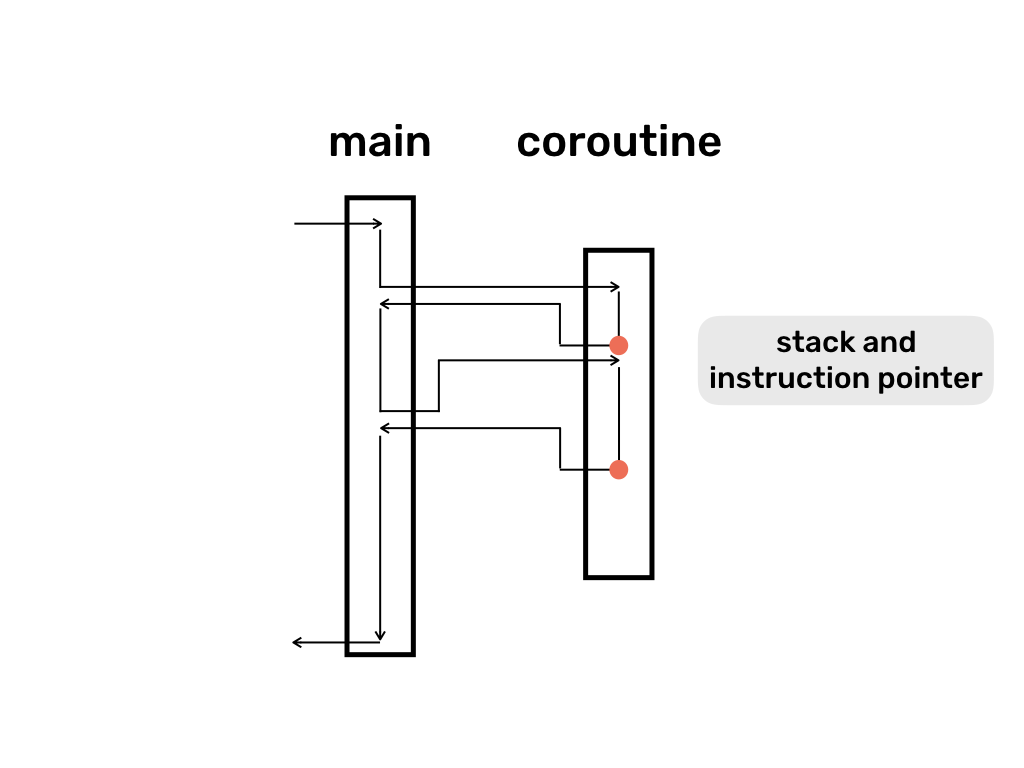
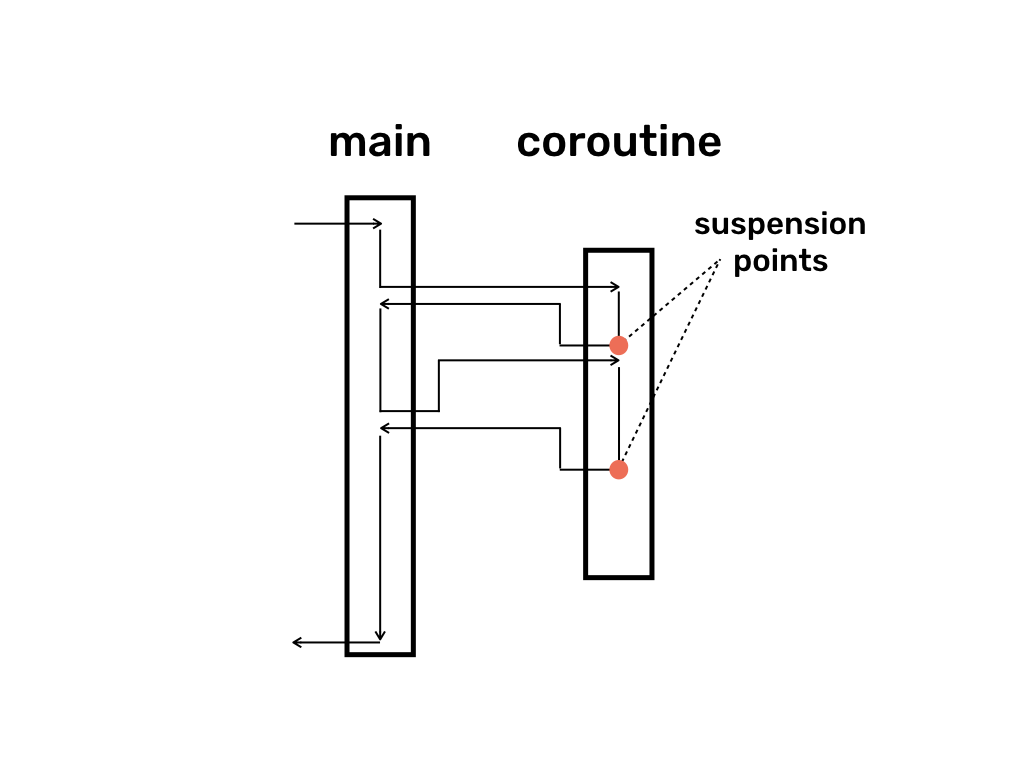
reviewed "coroutines as threads" post

Changed region(s): [[0.6875, 0.4375, 0.9688, 0.5312], [0.6562, 0.2812, 0.8438, 0.375]]

diff --git a/_posts/coroutines/2018-05-01-coroutines-as-threads.md b/_posts/coroutines/2018-05-01-coroutines-as-threads.md
@@ -2,48 +2,58 @@
 draft: true
 ---
 
-The main motivation for this blog post is that I heard about coroutines, continuations, yield/async/await in various languages. And I even used them to some extent, but somehow I never got to really understand what they mean from computational point of view, how they work and how they relate to each other. Talking to other developers I think this is not just me. There is general not a lot of awareness in general. So this is an attempt to clarify coroutines.
+This is the first blog in a series of blogposts explaining coroutines, how they implemented in various programming languages and how they can make your life better. 
+There are currently four blogposts:
+[coroutines as threads]({% post_url 2018-05-01-coroutines-as-threads %}),
+[yielding generators]({% post_url 2018-05-02-yielding-generators %}),
+[async await]({% post_url 2018-05-03-async-await %}) and
+[call with current continuation]({% post_url 2018-05-06-call-with-current-continuation %}).
 
-### Brief History
+The main motivation for these blogposts is that, probably like many other developers, I heard about coroutines, continuations, yield/async/await and even used them to some extent, but somehow I never got to really understand what they mean from computational point of view, how they work and how concepts like continuations relate to coroutines. This is an attempt to clarify coroutines for myself and anyone else interested in the subject.
 
-There is nothing new about coroutines from computer science point of view. According to wikipedia coroutines were known as early as 1958. There were implemented in Simula 67 and in Scheme in 1972. They are so not new even by 90s that John Reynolds wrote The Discoveries of Continuations paper in 1993 describing the rediscoveries of continuations. Until about 80s there were no threads easily available in operating systems so if you needed any concurrent behaviour you would have to use coroutines or something similar. Later on when threads because widespread it seems that everyone forgot about coroutines for a while. Until recently when they came back into mainstream probably because some of the languages (like Python and JavaScript) don't have or can't use threads by design.
+
+### Why use coroutines?
+
+There are multiple reasons you might want to use coroutines.
+They will be explained in more details in later posts but here is a quick description of few main use-cases: 
+
+1. **Concurrency in single-threaded environment.** 
+Some programming languages don't have threads. This can be by design like in Lua or JavaScript (because it simplifies a lot of things in language design). Or like in Python which has threads but because of [global interpreter lock](https://wiki.python.org/moin/GlobalInterpreterLock) they cannot be used concurrently. Or it might be an embedded device running OS without threads. In all these cases, if you need concurrency, coroutines might be your best option.
+
+2. **To simplify code.** It can be done by using `yield` keyword to write iterables, by using `async/await` to "flatten" asynchronous code avoiding [callback hell](http://callbackhell.com) or by writing asynchronous code in imperative style (and staying away from converting all the code into pure functional style, e.g. see this [blog post](http://blog.paralleluniverse.co/2015/08/07/scoped-continuations/)).
+
+3. **Efficient use of OS resources and hardware.** If the design of your application requires a lot of threads, then you can benefit from coroutines by saving on memory allocation, time it takes to do context switch and ultimately benefit from using hardware more efficiently. For example, if each "business object" in your application is assigned a thread, then by using coroutines you will need less memory and will benefit from faster switching between coroutines. Another example might be performing blocking IO. Because in general, threads are more expensive than sockets, you are more likely to run out of available OS threads than sockets. To avoid this problem you can use non-blocking IO with coroutines.
+
+
+### Brief history
+
+There is nothing new about coroutines from computer science point of view. [According to wikipedia](https://en.wikipedia.org/wiki/Coroutine) coroutines were known as early as 1958. There were implemented in high-level programming languages starting with [Simula 67](https://en.wikipedia.org/wiki/Simula) and in [Scheme](https://en.wikipedia.org/wiki/Scheme_%28programming_language%29) in 1972. Coroutines were so old news by 90s that John Reynolds wrote [The Discoveries of Continuations paper](http://www.cs.ru.nl/%7Efreek/courses/tt-2011/papers/cps/histcont.pdf) in 1993 describing the rediscoveries of continuations. Until about 80s there were no threads easily available in operating systems so if you needed any concurrent behaviour you would have to use coroutines or something similar. Later on, when threads because widespread, it seems that everyone forgot about coroutines for a while. Until recently, when coroutines came back into mainstream probably because some of the languages (like Python and JavaScript) don't have or can't use threads by design.
+
 
 ### Coroutine definition
 
 A coroutine is a function which:
- - can *suspend* its execution (the expression where it suspends called *suspension point*)
- - can be *resumed* from *suspension point*  (keeping its original arguments and local variables).
+ - can **suspend** its execution (the expression where it suspends is called **suspension point**);
+ - can be **resumed** from **suspension point**  (keeping its original arguments and local variables).
 
-This is not a textbook definition because I couldn't find one and there seems to be no consensus about what exactly "coroutine" means. This is quite simple definition but there is more to it.
-
-### Why use coroutines?
-
-There are multiple reasons you might want/need to use coroutines.
-
-1. Cooperative multitasking in single-threaded environment. 
-As mentioned before, some languages don't have threads. This can be by design like in Lua and JavaScript (because it can simplify a lot of things). Or like in Python which actually has threads but because of global lock they cannot be used concurrently. Or it might be an embedded device which has OS without thread support. In all these cases, if you need concurrency, coroutines might be your best option
-
-2. Another use-case is simplifying code. E.g. using yield to write iterables in a simpler way, avoiding callback hell or writing asynchronous code in a simpler way avoiding falling in functional world.
-
-3. If by design your applications requires a lot "threads" then you might benefit from coroutines because they are cheaper than OS threads.
-
-4. In general, threads are more expensive than for example sockets. So you are more likely to run out of available threads than sockets. To avoid this problem you can use non-blocking IO with coroutines.
-
------
-There are few ways in which coroutines are implemented in programming languages. The most widespread implementations are coroutines as threads, yield/async/await and call/cc (aka "call with current continuation"). Under the hood they all use same ideas, so you might think of them as design patterns.
+This is an informal definition because there seems to be no consensus about what exactly "coroutine" means. 
+There are few ways in which coroutines are implemented in programming languages. The most widespread implementations are coroutines as threads, yield/async/await and via "call with current continuation" (abbreviated as "call/cc"). Under the hood they all use the same idea, so it might useful to think about them as design patterns which use the same underlying mechanism to solve different problems.
 
 
 ### Coroutines as threads
 
-Lua has quite typical implementation of coroutines as threads and it has straightforward syntax which should be readable for most people. In case you never encountered Lua, it's quite big in gaming industry and definitely is a serious enterprise language (you might think of it as a scripting language for interacting with C).
+[Lua](https://www.lua.org/about.html) is a scripting programming language designed to be used as an embedded language in large applications (thinking about it as "javascript for interacting with C" might be a fair analogy). In case you never encountered Lua, it is the most used scripting language in the gaming industry and definitely falls into the category of industrial strength enterprise languages.
 
-In order to illustrate coroutines, I will use the following notation I came up with, where rectangles represent functions as sequence of code instruction (executed from top to the bottom), and arrow lines represent thread of execution. (Note this is not UML or any other formal notation.) For example, executing a normal function looks like in the following diagram. Some thread starts executing program's `main` function, at some point it calls `function`, executes it, returns back to the execution point in `main`, finishes main and the whole program (`main` here represents entry point in the whole program similar to "main" function in C). 
+Lua is good for showing coroutines because it has quite typical implementation of coroutines as threads and it has straightforward syntax which should be readable for most people.
 
+#### Notation
+
+In order to illustrate coroutines, I will use the following notation: 
 ![](/assets/images/coroutines/coroutines-as-threads/0-subfunction.png)
 
+In this notation rectangles represent functions as sequence of code instruction (executed from the top to the bottom), and arrowed lines represent a thread. For example, in the diagram above a thread starts executing program's `main` function, at some point it calls `function`, executes it, returns back to the execution point in `main`, finishes `main` and the whole program terminates (`main` here represents program's entry point named after ["main" function in C](https://en.wikipedia.org/wiki/Entry_point#C_and_C++)). 
 
-This is what a similar function looks like in Lua. When executed it prints "hello", executes sub-function which prints "from", returns to `main` and prints "Lua".
-
+An equivalent code in Lua which prints `hello`, executes sub-function to print `from`, then returns to `main` and prints `Lua`, looks like this: 
 <lua>
 function sub_routine()
 	print("from ")
@@ -54,12 +64,14 @@ sub_routine()
 print("Lua")
 </lua>
 
-Now here is a diagram representing execution of a coroutine. Similarly some thread enters `main`, executes a bit of code and invokes coroutine. Coroutine executes some instructions until it reaches **suspension point** which saves current **stack and instruction pointer** somewhere in memory. (Here "stack" and "instruction pointer" are used in an abstract way and don't mean any particular implementation details. It's just a convenient way to think about what's going on.) After this coroutine returns to `main` just like a normal sub-function. Some time later after executing a bit of code `main` calls coroutines again. Coroutine starts executing from the last suspension point, i.e. effectively it restores saved stack and jumps back to saved instruction pointer. After executing few more commands coroutines reaches another suspension point which saves current stack and instruction pointer again and returns to `main`. After this `main` executes few more commands and the whole program finishes. (As you can see we it didn't have to finish execution of the coroutine.)
+#### Basic coroutine
 
+Now here is a diagram representing execution of a basic coroutine: 
 ![](/assets/images/coroutines/coroutines-as-threads/1-coroutine.png)
 
-Below is Lua code which does similar thing. Initially `coroutine.create` (it's a library function in Lua) take anonymous function which defines coroutine code. After assigning coroutine to variable `c`, `main` prints "1" and invokes coroutine. Coroutine prints "2" and calls another library function `coroutine.yield()` which acts as a suspension point, i.e. saves stack and instruction pointer for the coroutine and returns to `main`. After this `main` prints "3", invokes coroutine which prints "4" and yields one more time. Overall the program prints "12345" but reaches the line to print monkey (similar to the diagram above). Note that we can only call `coroutine.yield()` from the coroutine. If we attempt to do it from the `main`, Lua will stop with "attempt to yield from outside a coroutine" error.
+In the diagram some thread enters `main`, executes a bit of code and invokes the coroutine. Coroutine executes few instructions until it reaches **suspension point** which saves current **stack and instruction pointer** somewhere in memory. (In this context "stack" and "instruction pointer" are used in an abstract way and don't necessarily imply any particular implementation details. They are used as a convenient way to think about what's going on.) After the suspension point the coroutine returns back to `main` just like a normal sub-function. Some time later, after executing a bit of code, `main` calls the coroutine again. Coroutine starts executing from the last suspension point, i.e. effectively it restores saved stack and jumps back to the saved instruction pointer. After executing few more commands the coroutine reaches another suspension point which saves current stack and instruction pointer again and returns back to `main`. After this `main` executes few more commands and the whole program terminates. (As you have probably noticed, it didn't have to finish execution of the coroutine.)
 
+Below is the equivalent code in Lua: 
 <lua>
 c = coroutine.create(function()
 	print(2)
@@ -79,66 +91,62 @@ coroutine.resume(c)
 print(5)
 </lua>
 
-Similar to threads, coroutines have status. In the example below we create a coroutine but instead of printing numbers we print the result of invoking `coroutine.status(c)` which is a library function which as you can guess returns coroutine status. (In Lua `..` is string concatenation operator similar to `+` in most C-like languages.) This example will print status `suspended` in `main` and status `running` when in coroutine `c` until the coroutine executes all the command and ends up with `dead` status. In a way this mimics status of threads given that they can only be executed one at a time. Overall the code below will print:
-```
-main: suspended
-c: running
-main: suspended
-c: running
-main: suspended
-c: running
-main: dead
-```
+First of all, we define coroutine with `coroutine.create` [library function](https://www.lua.org/pil/9.1.html) by passing anonymous function as an argument. After assigning the coroutine to variable `c`, `main` prints `1` and starts the coroutine with `coroutine.resume` function. The coroutine prints `2` and calls another library function `coroutine.yield` which acts as a suspension point, i.e. saves stack and instruction pointer of the coroutine and returns to `main`. After this `main` prints `3`, resumes coroutine again which prints `4` and yields back to `main` one more time. Overall, the program prints `12345` and never reaches the line to print monkey (similar to the diagram above which never finishes execution of coroutine). Note that we can only call `coroutine.yield` from the coroutine body. If we attempt to do it from the `main`, the code will fail at runtime with "attempt to yield from outside a coroutine" error.
 
+#### Coroutine status
+
+Similar to threads, coroutines in Lua have status. In the example below we create a coroutine but instead of printing numbers we print the result of `coroutine.status(c)` which, as you can guess, returns status of coroutine `c`. This example will print status `suspended` when invoked in `main` and `running` when in coroutine `c`. After the coroutine executes all the commands, it ends up with the `dead` status. This mimics status of threads given that they can only be executed one at a time. (In case you were wondering, in Lua `..` is a string concatenation operator similar to `+` in most C-like languages.) 
 <lua>
 c = coroutine.create(function()
-	print("c: " .. coroutine.status(c))
+	print("c is: " .. coroutine.status(c)) -- c is: running
 	coroutine.yield()
-	print("c: " .. coroutine.status(c))
-	coroutine.yield()
-	print("c: " .. coroutine.status(c))
+	print("c is: " .. coroutine.status(c)) -- c is: running
 end)
 
-print("main: " .. coroutine.status(c))
+print("c is: " .. coroutine.status(c)) -- c is: suspended
 coroutine.resume(c)
-print("main: " .. coroutine.status(c))
+print("c is: " .. coroutine.status(c)) -- c is: suspended
 coroutine.resume(c)
-print("main: " .. coroutine.status(c))
-coroutine.resume(c)
-print("main: " .. coroutine.status(c))
+print("c is: " .. coroutine.status(c)) -- c is: dead
 </lua>
 
-Unlike threads, coroutines in Lua can pass values from/to suspension points. In the code below we create coroutine as usual with the `coroutine.create` function but unlike the previous examples when on coroutine `resume` we pass one more argument. Initially, we pass `1` so when coroutine starts `n` has value of `1`. Coroutine prints "1" and yields it's execution returning `2`. In `main` the expression `coroutine.resume(c, 1)` receives `2` from the coroutine and assigns it to variable `m` (you can ignore `_,` in this example, this is multi-assignment of one more value which is not essential here). When executed, the code below will print:
-```
-c <- 1
-main <- 2
-c <- 3
-main <- 4
-c <- 5
-```
- 
+#### Send/receive values from coroutines
+
+Coroutines in Lua can send/receive values at suspension points (admittedly, in this case analogy with threads doesn't work that well).
 <lua>
 c = coroutine.create(function(n)
-	print("c <- " .. n)
+	print("c received: " .. n)
 	n = coroutine.yield(2)
-	print("c <- " .. n)
+	print("c received: " .. n)
 	n = coroutine.yield(4)
-	print("c <- " .. n)
+	print("c received: " .. n)
 end)
 
 _, m = coroutine.resume(c, 1)
-print("main <- " .. tostring(m))
+print("main received: " .. tostring(m))
 _, m = coroutine.resume(c, 3)
-print("main <- " .. tostring(m))
+print("main received: " .. tostring(m))
 _, m = coroutine.resume(c, 5)
+
 </lua>
+In the code above we create coroutine as usual with `coroutine.create` function but unlike the previous examples we pass one more argument to `coroutine.resume`. Initially, we pass `1` so when the coroutine starts, `n` has value of `1`. Coroutine prints `1` and yields it's execution returning `2`. In the `main` the expression `coroutine.resume(c, 1)` evaluates as `2` by getting yielded value from the coroutine and assigns it to variable `m` (in this example `_` is part of multi-assignment and can contain an error message). Overall, the program will print the following:
+```
+c received: 1
+main received: 2
+c received: 3
+main received: 4
+c received: 5 
+```
 
-In the diagram below, if you ignore entry and exit points into the `main` function, then the whole invocation sequence looks quite symmetric. That is there seems to be no big difference between `main` and `coroutine` as if they are just two threads switching execution between each other.
+#### All functions as coroutines
 
+In the diagram below, if you ignore entry and exit points into the `main` function, then the whole invocation sequence looks quite symmetric. There seems to be no big difference between `main` and `coroutine` as if they are just two threads (or coroutines) switching execution between each other.
 ![](/assets/images/coroutines/coroutines-as-threads/2-symmetry1.png)
+
+So we could rename `main` and `coroutine` to `coroutine 1` and `coroutine 2`. 
 ![](/assets/images/coroutines/coroutines-as-threads/2-symmetry2.png)
 
-And in fact there is a way to write the same code in Lua using two coroutines. In the example below `main` function resumes coroutine `c1` which resumes coroutine `c2` and then coroutines switch between each other similar to the diagram above. 
+And, in fact, there is a way to write code with the same functionality using two coroutines. In the following example `main` function resumes coroutine `c1` which resumes coroutine `c2`, and then coroutines switch between each other similar to the diagram above.
 <lua>
 c2 = coroutine.create(function()
 	print(2)
@@ -157,12 +165,17 @@ end)
 
 coroutine.resume(c1)
 </lua>
+This is the most basic example of how to achieve concurrency in a single-threaded environment by using [cooperative multitasking](https://en.wikipedia.org/wiki/Cooperative_multitasking) which is one of the main reasons to use coroutines as mentioned in the beginning of this blogpost. If you imagine that `coroutine.yield` and `coroutine.resume` are automatically sprinkled over the coroutines by some other program which we could call "scheduler", then we no longer control context switching between coroutines and it becomes [preemtive multitasking](https://en.wikipedia.org/wiki/Preemption_(computing)#Preemptive_multitasking). Arguably, this is the point when we can no longer say that we are dealing with coroutines.
 
-The final thing worth mentioning in the context of coroutines as threads is the ability of coroutines to yield execution from sub-functions. For example, in the diagram below `main` invokes coroutine which invokes sub-function. (There is no particular meaning of the dotted line in the diagram. The only reason for dotted line is to make the diagram a bit more readable.) When sub-function reaches suspension point, it returns back all the into the `main` function. After that `main` executes some more code and resume the coroutine. When resumed, coroutine continues execution directly from the sub-function which when finished returns normally to coroutine and to `main`. If you think about `main` as one thread and coroutine with sub-function as another function, this is perfectly reasonable behaviour because when execution is switched between threads it doesn't matter if one of the threads is currently in the middle of some sub-function. 
+#### Stackful vs stackless coroutines
+
+The final thing worth mentioning in the context of coroutines as threads, is the ability of coroutines to yield execution from sub-functions. For example, in the diagram below `main` invokes `coroutine` which in its turn invokes a `sub-function`. (The dotted lines in the diagram have the same meaning as solid lines. The only reason for dotted lines is to make the diagram less cluttered.)
 
 ![](/assets/images/coroutines/coroutines-as-threads/3-sub-yield.png)
 
-Coroutines implementations which are capable of yielding from sub-functions are called **stackful**. Other implementations of coroutines are **stackless**, i.e. they can only yield execution from top level of coroutine function. Lua implementation of coroutines is stackful so we write code like in the example below which outputs "1234567":  
+When `sub-function` reaches suspension point, it returns back all the way into the `main` function. After that `main` executes some more code and resumes the `coroutine`. When resumed, the `coroutine` continues execution directly from the suspension point in `sub-function`, which when finished returns normally to the `coroutine` and to `main`. If you think about `main` as one thread and `coroutine` with `sub-function` as another thread, then this is a perfectly reasonable behaviour because when threads switch execution between each other it doesn't matter if one of the threads is currently in the middle of some sub-function. 
+
+Coroutines implementations which are capable of yielding from sub-functions are called **stackful**, i.e. they can remember the whole invocation stack. Other implementations of coroutines, which can only yield execution from the top level of coroutine function, are **stackless**. Lua implementation of coroutines is stackful so we can write code like in the example below, which outputs `1234567`.  
 <lua>
 function sub_function()
 	print(3)
@@ -184,6 +197,16 @@ print(7)
 </lua>
 
 ### Summary
-There are few related terms to the idea of coroutines being used as threads: fibers, green threads, protothreads, goroutines. In particular, green threads mean threads which are not implemented on top of OS threads and, therefore, can be more lightweight and used by execution environment in more optimal way. Unlike coroutines though, context switch between green threads is done by scheduler and cannot be controlled by the program. This is how goroutines work except they're named with one-letter difference with coroutines what can be quite confusing.
+There are few terms related to the idea of coroutines being used as threads: 
+[fibers](https://en.wikipedia.org/wiki/Fiber_(computer_science)), 
+[green threads](https://en.wikipedia.org/wiki/Green_threads), 
+[protothreads](https://en.wikipedia.org/wiki/Protothreads) and 
+[goroutines](https://en.wikipedia.org/wiki/Go_(programming_language)#Concurrency:_goroutines_and_channels).
+They all mean similar things but the encompassing theme is to not use OS threads for concurrency or multitasking. The reason might be that the OS/programming environment doesn't support threads at all or that it's more efficient to use custom context switching mechanism. There is no specific requirement, however, that there is only one OS thread or CPU executing coroutines and particular implementation can be using multiple threads, but this is implementation details.
 
-Overall, thinking about coroutines as threads is probably the most intuitive and straightforward to understand them. The biggest difference is the lack of scheduler (all context switching must be done by the program) and the fact that coroutine implementations can be stackless.
+Overall, thinking about coroutines as lightweight threads is the most intuitive and the most high-level metaphor for coroutines. Compared to actual threads the biggest conceptual difference is the lack of scheduler (all context switching must be done by the program) and the fact that coroutine implementations can be stackless.
+
+This is not the end of the story though, coroutines is a bit more subtle subject. You can read more in the following blogposts
+[yielding generators]({% post_url 2018-05-02-yielding-generators %}),
+[async await]({% post_url 2018-05-03-async-await %}) and
+[call with current continuation]({% post_url 2018-05-06-call-with-current-continuation %}).   
